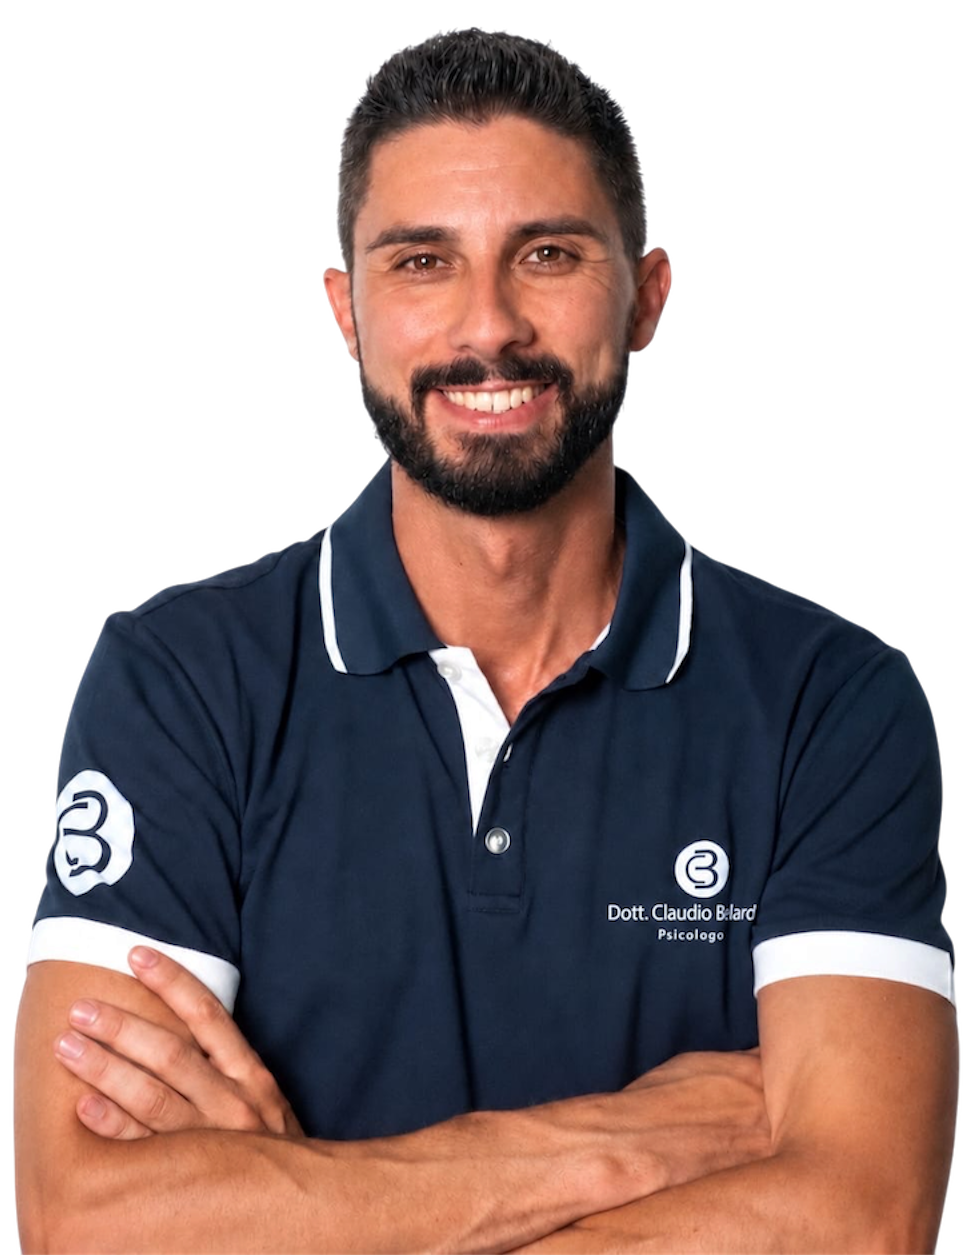
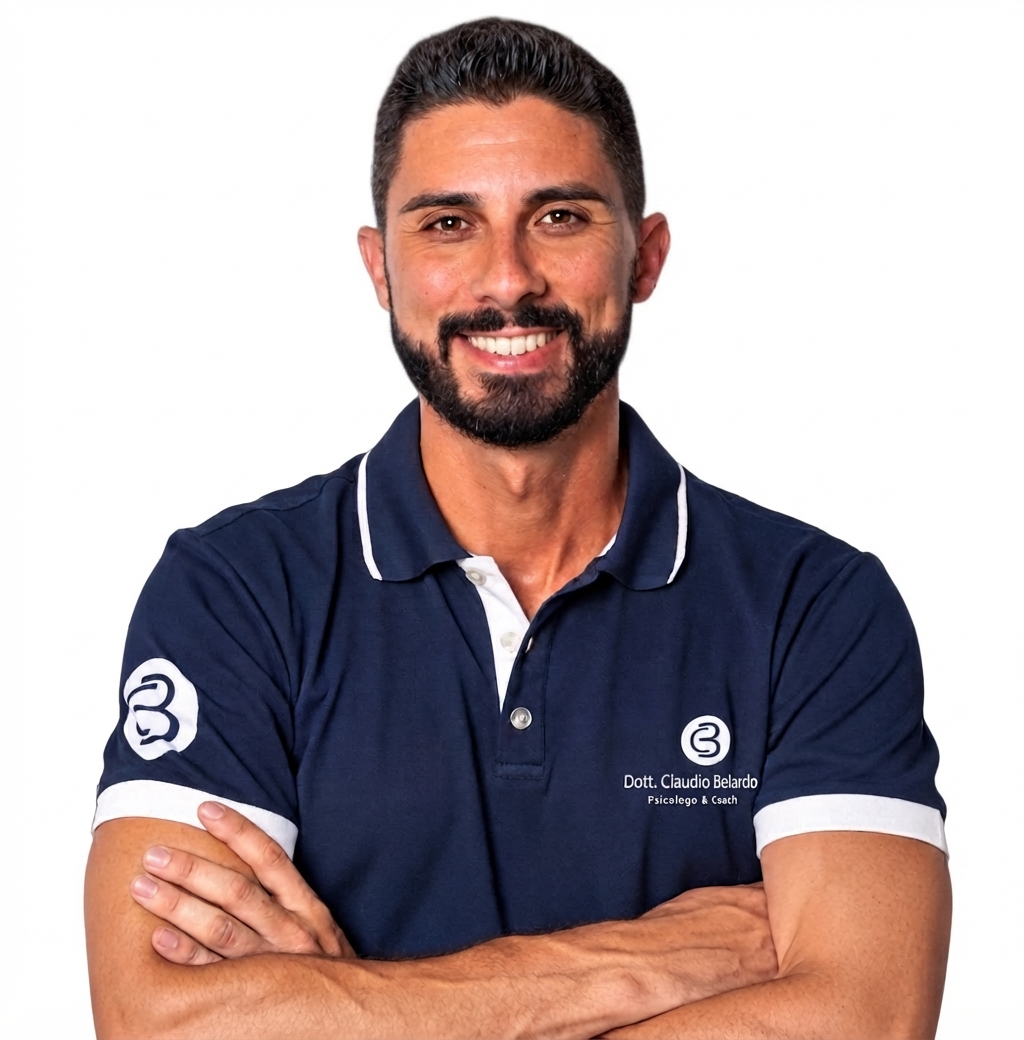
aggiornato

Changed region(s): [[0.0, 0.0, 0.9938, 1.0]]

diff --git a/index2.html b/index2.html
@@ -248,32 +248,13 @@
     opacity:0; animation:photoIn 1s var(--ease) forwards; animation-delay:.25s;
   }
   @keyframes photoIn{from{opacity:0; transform:scale(.94) translateY(10px);} to{opacity:1; transform:scale(1) translateY(0);}}
-  .blob{
-    position:absolute; width:106%; height:112%; z-index:0;
-    background:linear-gradient(135deg, #f4f4f5, #e5e7eb);
-    animation: blobMorph 12s ease-in-out infinite;
-  }
-  @keyframes blobMorph{
-    0%,100%{border-radius:42% 58% 65% 35% / 45% 40% 60% 55%;}
-    33%{border-radius:65% 35% 40% 60% / 55% 65% 35% 45%;}
-    66%{border-radius:38% 62% 55% 45% / 65% 40% 60% 35%;}
-  }
   .hero-photo{
     position:relative; z-index:1; width:min(380px, 78vw);
-    border-radius:50% 50% 46% 54% / 55% 55% 45% 45%;
-    overflow:hidden; border:2px solid #111111; background:var(--surface);
+    border-radius:0;
+    overflow:hidden; background:var(--surface);
     transform-style:preserve-3d; transition:transform .25s var(--ease);
   }
   .hero-photo img{width:100%;height:100%;object-fit:cover;}
-  .accent-ring{
-    position:absolute; z-index:2; width:72px;height:72px; border-radius:50%;
-    border:1.5px solid #111111; top:6%; right:6%;
-    animation:ringSpin 18s linear infinite;
-  }
-  .accent-ring::after{
-    content:''; position:absolute; width:8px;height:8px;border-radius:50%;
-    background:#111111; top:-4px; left:50%; margin-left:-4px;
-  }
   @keyframes ringSpin{to{transform:rotate(360deg);}}
 
   /* ---------- SECTION DIVIDER ---------- */
@@ -535,8 +516,6 @@
      sono la causa principale della sensazione che la pagina "balli". Restano solo
      le animazioni di ingresso (una tantum), non quelle continue. */
   @media (max-width:760px){
-    .blob{animation:none;}
-    .accent-ring{animation:none;}
     .home-btn .home-circle{animation:none;}
     .home-btn .home-ring{animation:none; display:none;}
     .social-orbit .ring{animation:none;}
@@ -598,11 +577,9 @@
 </div>
         </div>
         <div class="hero-photo-wrap">
-          <div class="blob"></div>
           <div class="hero-photo" id="tiltPhoto">
             <img src="claudio.png" alt="">
           </div>
-          <div class="accent-ring"></div>
         </div>
       </div>
     </div>
